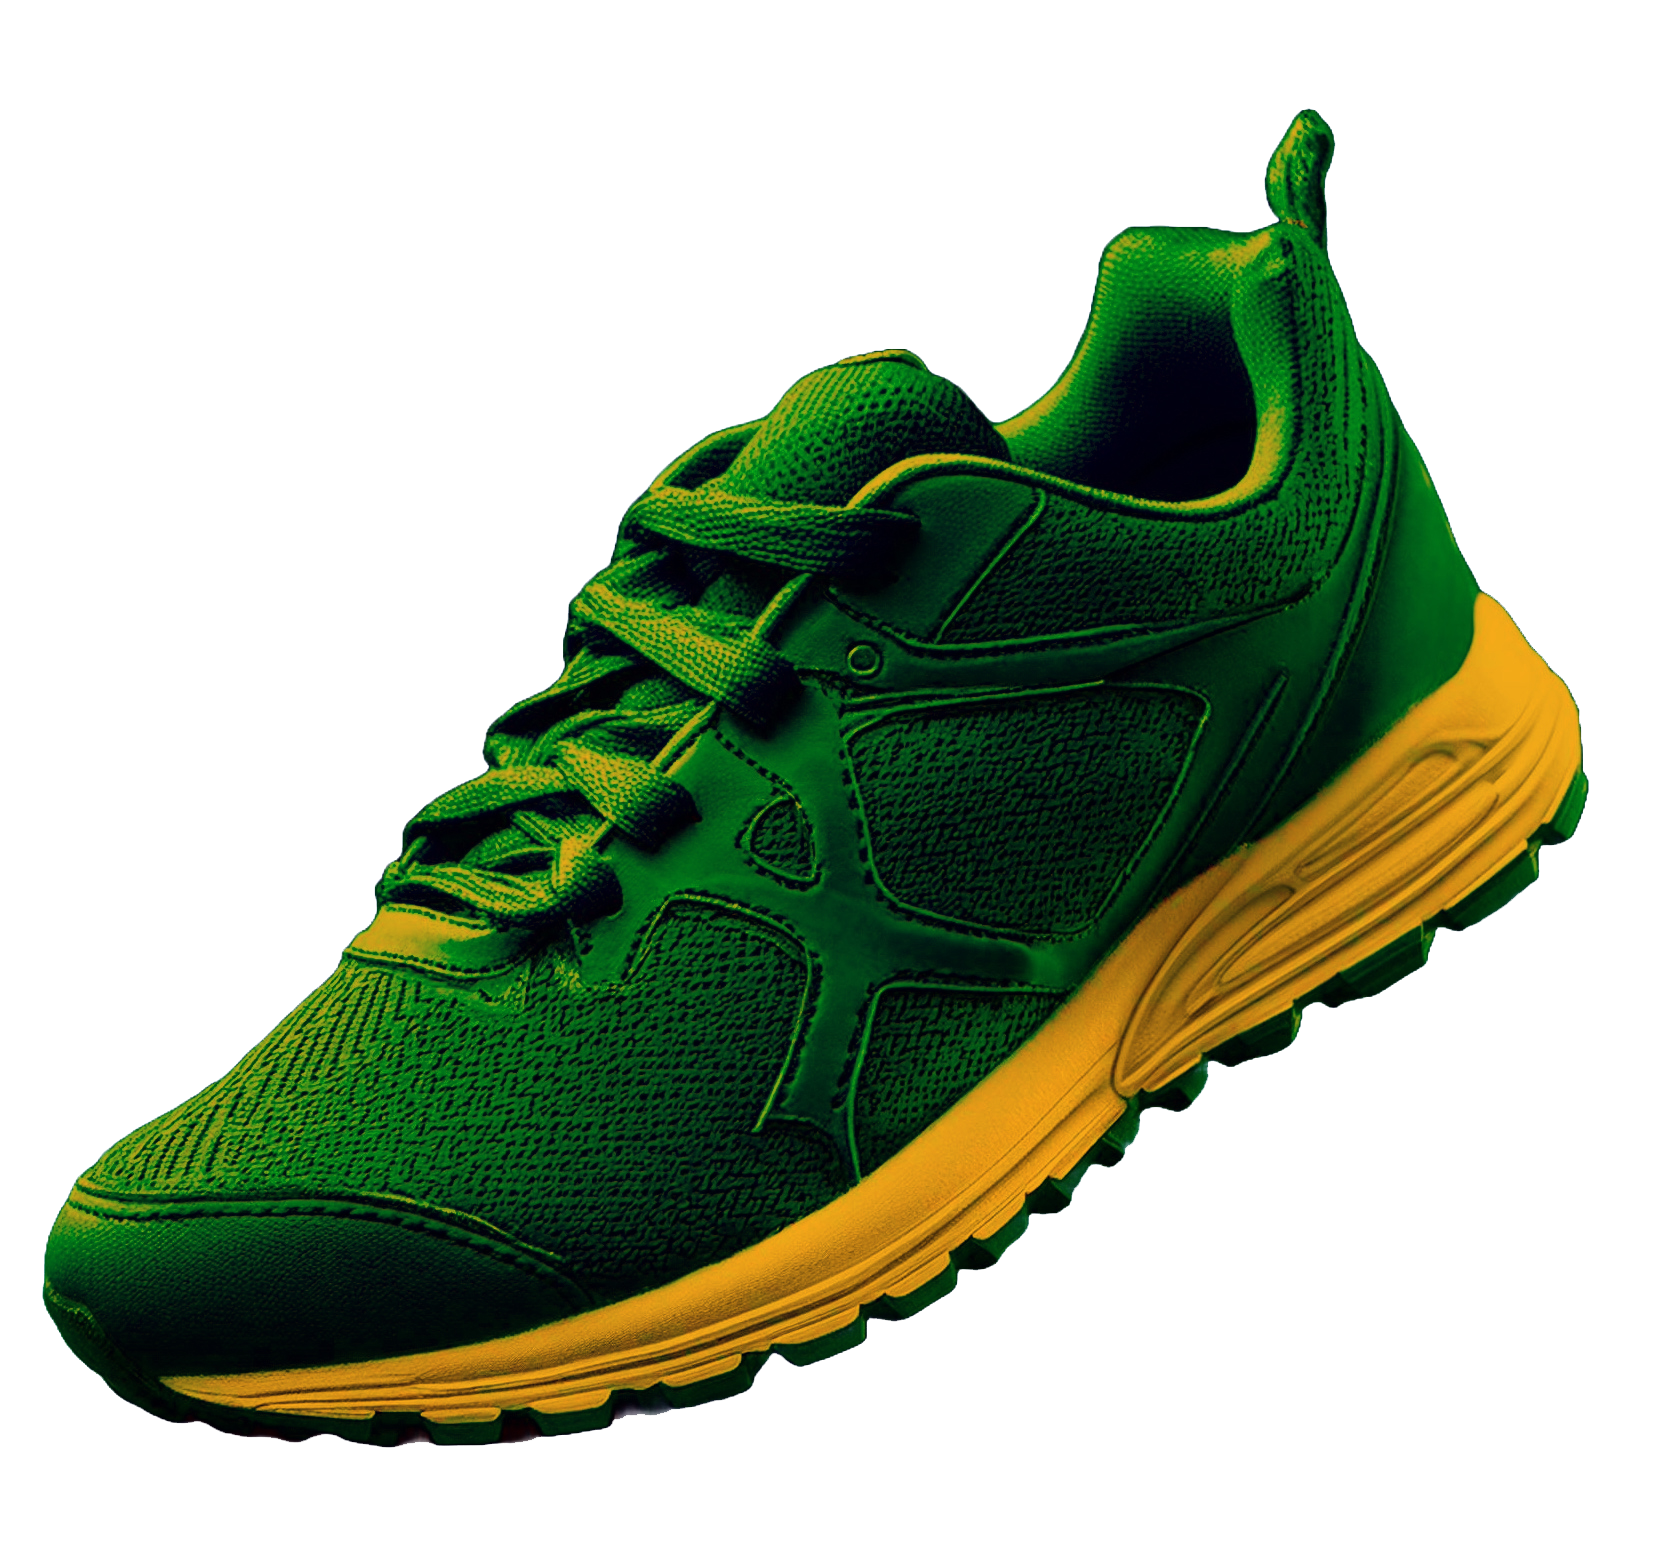
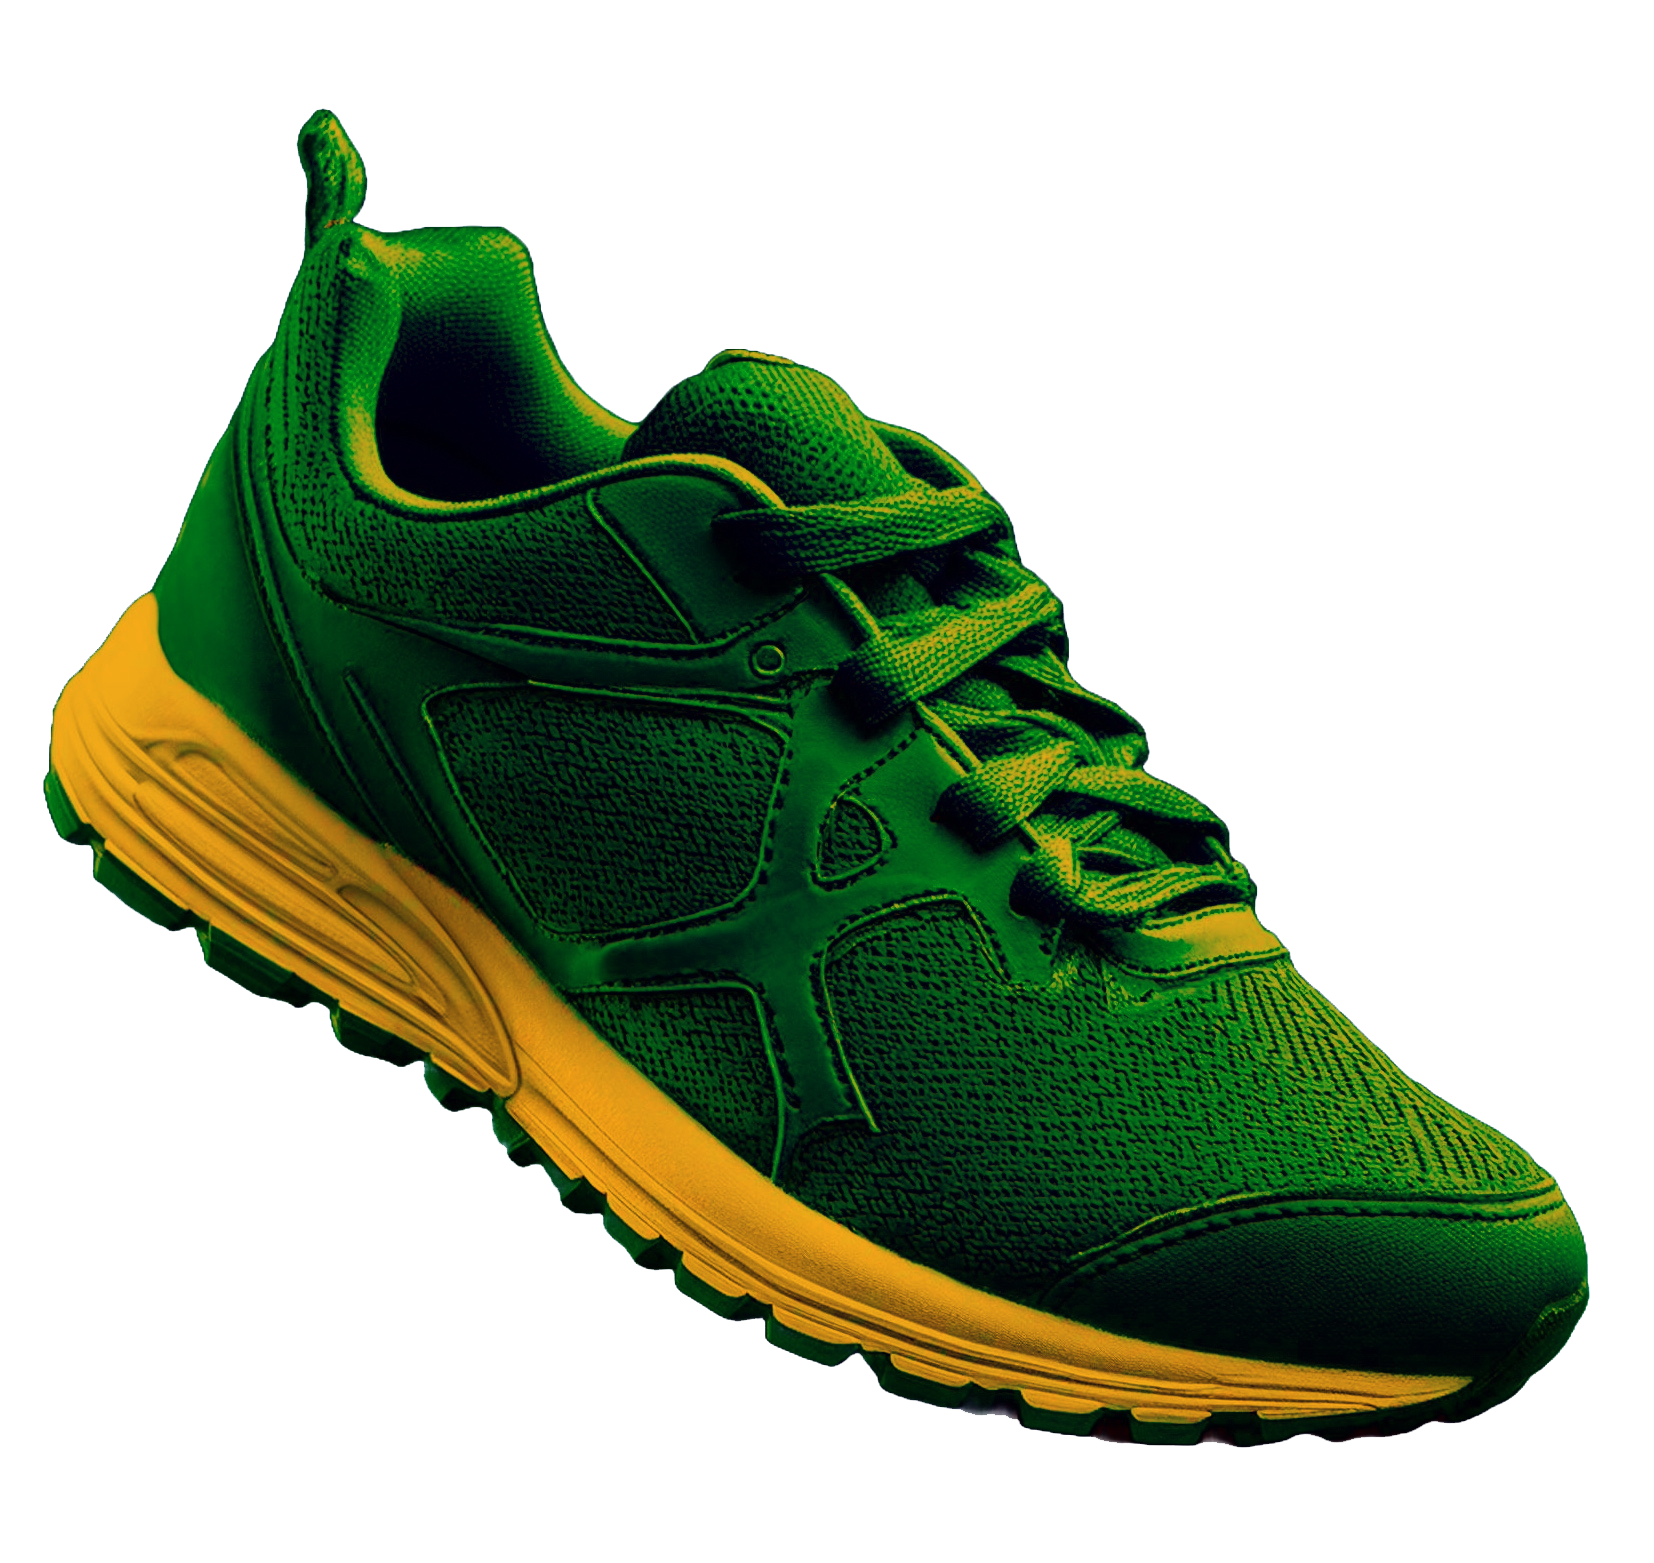
adding hero

diff --git a/style.css b/style.css
@@ -98,6 +98,7 @@ img {
 .clamp-2 {
   display: -webkit-box;
   -webkit-line-clamp: 2;
+  line-clamp: 2;
   -webkit-box-orient: vertical;
   text-overflow: ellipsis;
 }
@@ -170,7 +171,7 @@ img {
     padding: 40px 20px;
   }
   .heading-1 {
-    font-size: 45px;
+    font-size: 35px;
     line-height: 50px;
   }
   .sub-title {
@@ -221,4 +222,179 @@ nav .tab.active {
   border-color: var(--primary);
   background: var(--bg-accent);
   color: var(--foreground);
+}
+
+.overlay {
+  position: fixed;
+  top: 0;
+  left: 0;
+  z-index: 110;
+  width: 100%;
+  height: 100%;
+  min-height: 100vh;
+  background: rgba(1, 1, 1, 0.5);
+  display: none;
+}
+nav #sidebar-toggle {
+  width: 0;
+  height: 0;
+  visibility: hidden;
+  position: absolute;
+  top: -9999px;
+}
+
+nav .menu-btn {
+  display: none;
+}
+
+nav .cancel-btn {
+  display: none;
+  position: absolute;
+  top: 20px;
+  right: 10px;
+  cursor: pointer;
+}
+@media (max-width: 1100px) {
+  nav .contact-btn {
+    display: none;
+  }
+}
+@media (max-width: 980px) {
+  nav .sidebar {
+    position: fixed;
+    top: 0;
+    right: -100%;
+    height: 100%;
+    width: 100%;
+    max-width: 320px;
+    min-height: 100vh;
+    z-index: 150;
+    background: var(--bg-primary);
+    flex-direction: column;
+    justify-content: flex-start;
+    align-items: stretch;
+    padding: 20px;
+    padding-top: 80px;
+    transition: var(--transition);
+  }
+  nav #sidebar-toggle:checked ~ .sidebar {
+    right: 0;
+  }
+  nav #sidebar-toggle:checked ~ .overlay {
+    display: block;
+  }
+  nav .menu-btn,
+  nav .cancel-btn {
+    display: flex;
+  }
+}
+
+@media (max-width: 400px) {
+  nav .search-btn {
+    display: none;
+  }
+}
+#hero .container {
+  display: grid;
+  grid-template-columns: auto 500px;
+  gap: 30px;
+  padding-top: 100px;
+  align-items: flex-start;
+  border-style: solid;
+  border-width: 0.5px;
+  border-color: transparent var(--border-primary) transparent
+    var(--border-primary);
+}
+#hero .buttons-wrapper {
+  justify-content: flex-start;
+  margin-top: 30px;
+}
+#hero .hero-image {
+  position: relative;
+  max-width: 500px;
+  margin: auto;
+}
+
+#hero .rating-group {
+  position: absolute;
+  bottom: -40px;
+  left: 0;
+  background: var(--glow);
+  padding: 20px;
+  -webkit-backdrop-filter: blur(100px);
+  backdrop-filter: blur(100px);
+  border-radius: 10px;
+}
+#hero .stars-container {
+  color: var(--warning);
+}
+#hero .discount-wrapper {
+  position: relative;
+  max-width: 250px;
+}
+#hero svg {
+  max-width: 100%;
+}
+
+#hero svg .text {
+  fill: var(--muted-foreground);
+  font-size: 35px;
+  font-weight: 700;
+  font-variant-ligatures: none;
+  letter-spacing: 5px;
+  animation: rotate 25s linear infinite;
+  transform-origin: 250px 250px;
+}
+
+@keyframes rotate {
+  to {
+    transform: rotate(360deg);
+  }
+}
+#hero .textcircle {
+  transition: tansform 1s cubic-bezier(0.65, 0, 0.35, 1);
+}
+
+#hero .discount-wrapper:hover .textcircle {
+  transform: scale(1.2) rotate(90deg);
+}
+
+#hero .discount {
+  position: absolute;
+  top: 50%;
+  left: 50%;
+  transform: translate(-50%, -50%);
+  font-size: 30px;
+  transition: var(--transition);
+  text-align: center;
+  background: var(--gradient-2);
+  -webkit-text-fill-color: transparent;
+  -webkit-background-clip: text;
+  background-clip: text;
+}
+#hero .discount-wrapper:hover .discount {
+  scale: 1.1;
+}
+
+@media (max-width: 1000px) {
+  #hero .container {
+    grid-template-columns: auto 400px;
+  }
+}
+@media (max-width: 900px) {
+  #hero .container * {
+    text-align: center;
+  }
+
+  #hero .container {
+    grid-template-columns: 100%;
+    border: none;
+  }
+  #hero .discount-wrapper {
+    margin: auto;
+  }
+
+  #hero .buttons-wrapper {
+    justify-content: center;
+  }
 }

diff --git a/index.html b/index.html
@@ -52,6 +52,74 @@
     </nav>
     <!-- navigation End -->
 
+    <!-- header start -->
+    <section id="hero" class="flex">
+      <div class="container">
+        <div class="column">
+          <h1 class="heading-1">
+            کفش های <span class="stroke-text"> بی نظیر </span>
+            <span class="gradient-text"> برای همه </span>
+          </h1>
+          <p class="muted">
+            با هر قدم، برتری و خاص بودن خود را با کفشهای ما به نمایش بگذارید
+            کفشهایی که فراتر از مد روز، استایلی خاص و چشمنواز به شما هدیه
+            میکنند. در هر مکانی که هستید، با کفشهای ما بدرخشید و خاص باشید.
+          </p>
+          <div class="discount-wrapper">
+            <svg
+              xmlns="http://www.w3.org/2000/svg"
+              xml:lang="en"
+              xmlns:xlink="http://www.w3.org/1999/xlink"
+              viewBox="0 0 500 500"
+              c
+            >
+              <defs>
+                <path
+                  id="textcircle"
+                  d="M250,400
+                             a150,150 0 0,1 0,-300a150,150 0 0,1 0,300Z"
+                  transform="rotate(12,250,250)"
+                />
+              </defs>
+              <g class="textcircle">
+                <text textLength="940" class="text">
+                  <textPath
+                    xlink:href="#textcircle"
+                    aria-label="Discount circle"
+                    textLength="940"
+                  >
+                    ما بهترین کفش هارو داریم
+                  </textPath>
+                </text>
+              </g>
+            </svg>
+            <h1 class="discount">30% آفر</h1>
+          </div>
+          <div class="flex-center buttons-wrapper">
+            <a href="#" class="btn"> خرید کنید </a>
+            <a href="#" class="btn primary">بیشتر بدانید</a>
+          </div>
+        </div>
+        <div class="column hero-image">
+          <img src="/assets/hero-shoe.png" alt="" />
+          <div class="rating-group">
+            <div class="flex row">
+              <h1>4.5</h1>
+              <div class="flex-center stars-container">
+                <i class="fa-solid fa-star"></i>
+                <i class="fa-solid fa-star"></i>
+                <i class="fa-solid fa-star"></i>
+                <i class="fa-solid fa-star"></i>
+                <i class="fa-solid fa-star"></i>
+              </div>
+            </div>
+            <p>400k <span class="muted">نظرات</span></p>
+          </div>
+        </div>
+      </div>
+    </section>
+    <!-- header end -->
+
     <script src="app.js"></script>
   </body>
 </html>
